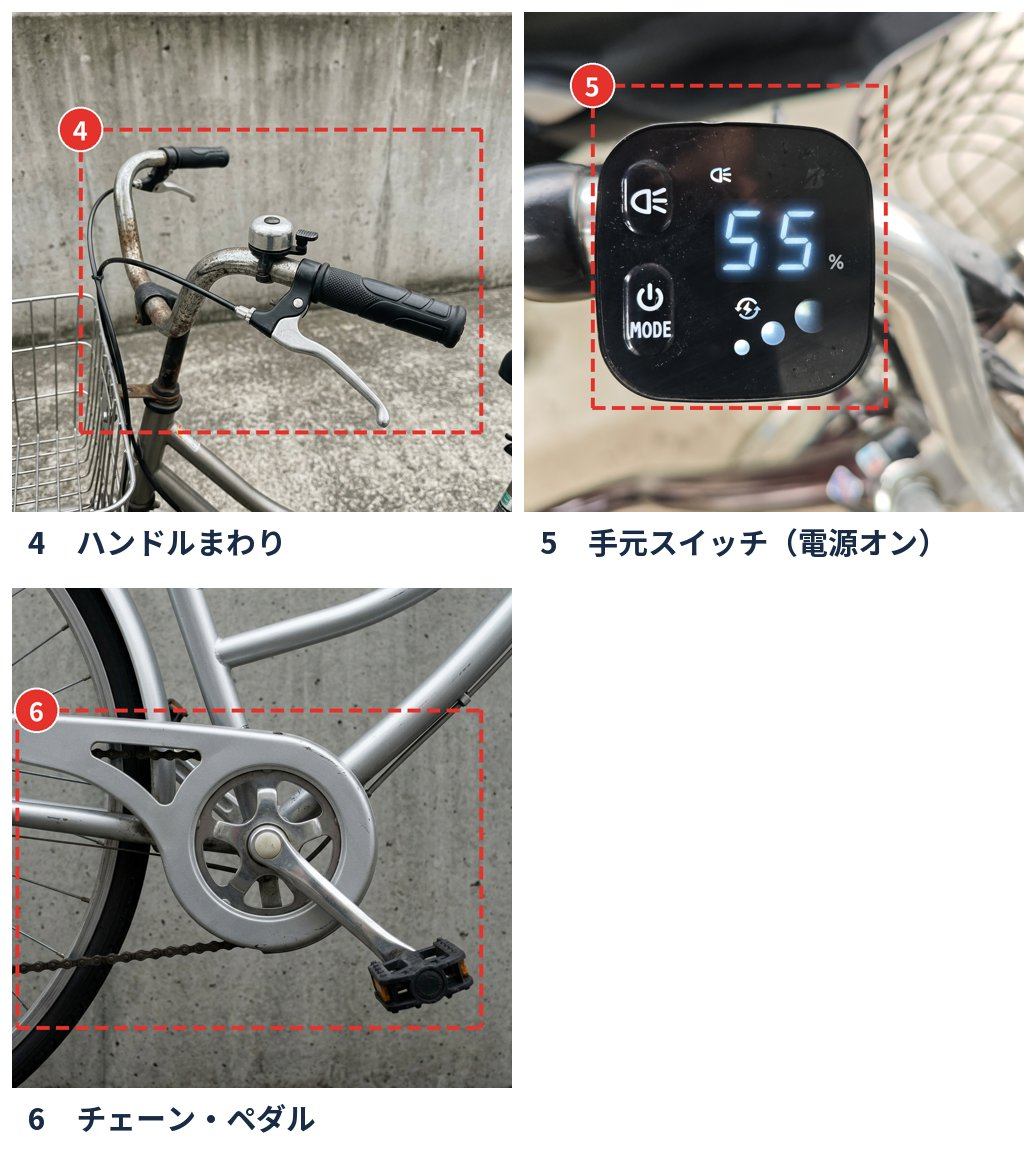
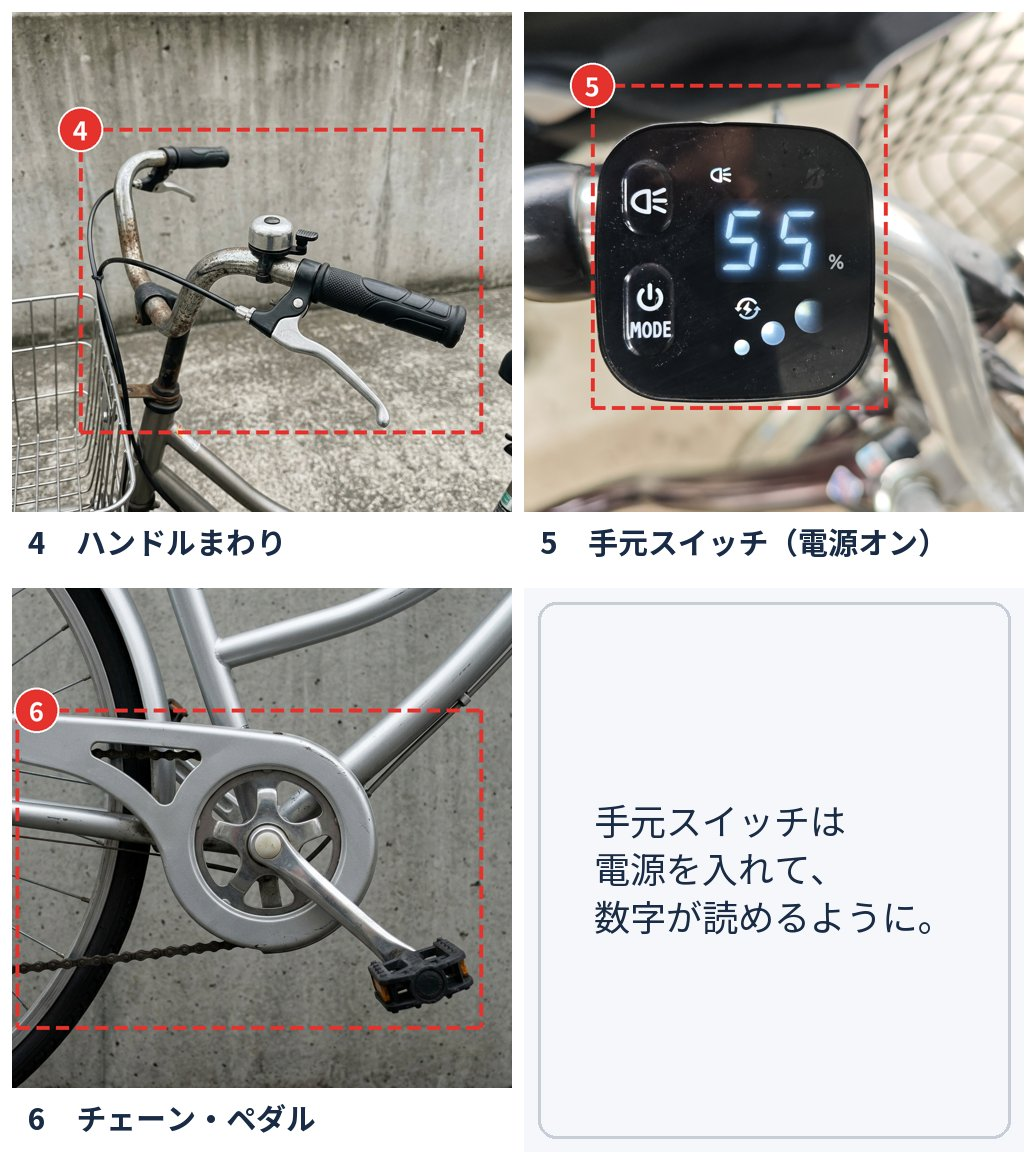
写真査定: 説明マス入りの合成画像を生成し直す（前のコミットは生成スクリプトの改行の書き方が壊れていて画像が更新されていなかった）

Changed region(s): [[0.556, 0.6804, 0.8958, 0.8041]]

diff --git a/docs/mihon/make-mihon.py b/docs/mihon/make-mihon.py
@@ -93,28 +93,12 @@ EBIKE = {
 SETS_NORMAL = {0: [1, 2], 1: [1, 2, 3], 2: [4, 5], 3: [6, 7, 8, 9], 4: [10, 11]}   # set0 は処分用（全体2枚だけ）
 SETS_EBIKE = {0: [1, 2], 1: [1, 2, 3], 2: [4, 5, 6], 3: [7, 8, 9, 10], 4: [11, 12], 5: [13, 14, 15]}
 # 撮り方の説明は、合成画像の空きマス（コマが3つのとき）に書く。自動メッセージには入れない（2026-09-22 オーナー指示）
+_NL = chr(10)
 SET_NOTES = {
-    ('normal', 1): '品番シールは、型番が
-読めるように近づけて。
-
-シールがない場合は、
-ロゴや車種名が分かる
-ものでも大丈夫です。',
-    ('ebike', 1): '品番シールは、型番が
-読めるように近づけて。
-
-シールがない場合は、
-ロゴや車種名が分かる
-ものでも大丈夫です。',
-    ('ebike', 2): '手元スイッチは
-電源を入れて、
-数字が読めるように。',
-    ('ebike', 5): '型番シールは、
-文字が読めるように
-近づけて。
-
-充電器は、ランプが
-点いている瞬間を。',
+    ('normal', 1): _NL.join(['品番シールは、型番が', '読めるように近づけて。', '', 'シールがない場合は、', 'ロゴや車種名が分かる', 'ものでも大丈夫です。']),
+    ('ebike', 1): _NL.join(['品番シールは、型番が', '読めるように近づけて。', '', 'シールがない場合は、', 'ロゴや車種名が分かる', 'ものでも大丈夫です。']),
+    ('ebike', 2): _NL.join(['手元スイッチは', '電源を入れて、', '数字が読めるように。']),
+    ('ebike', 5): _NL.join(['型番シールは、', '文字が読めるように', '近づけて。', '', '充電器は、ランプが', '点いている瞬間を。']),
 }
 
 
